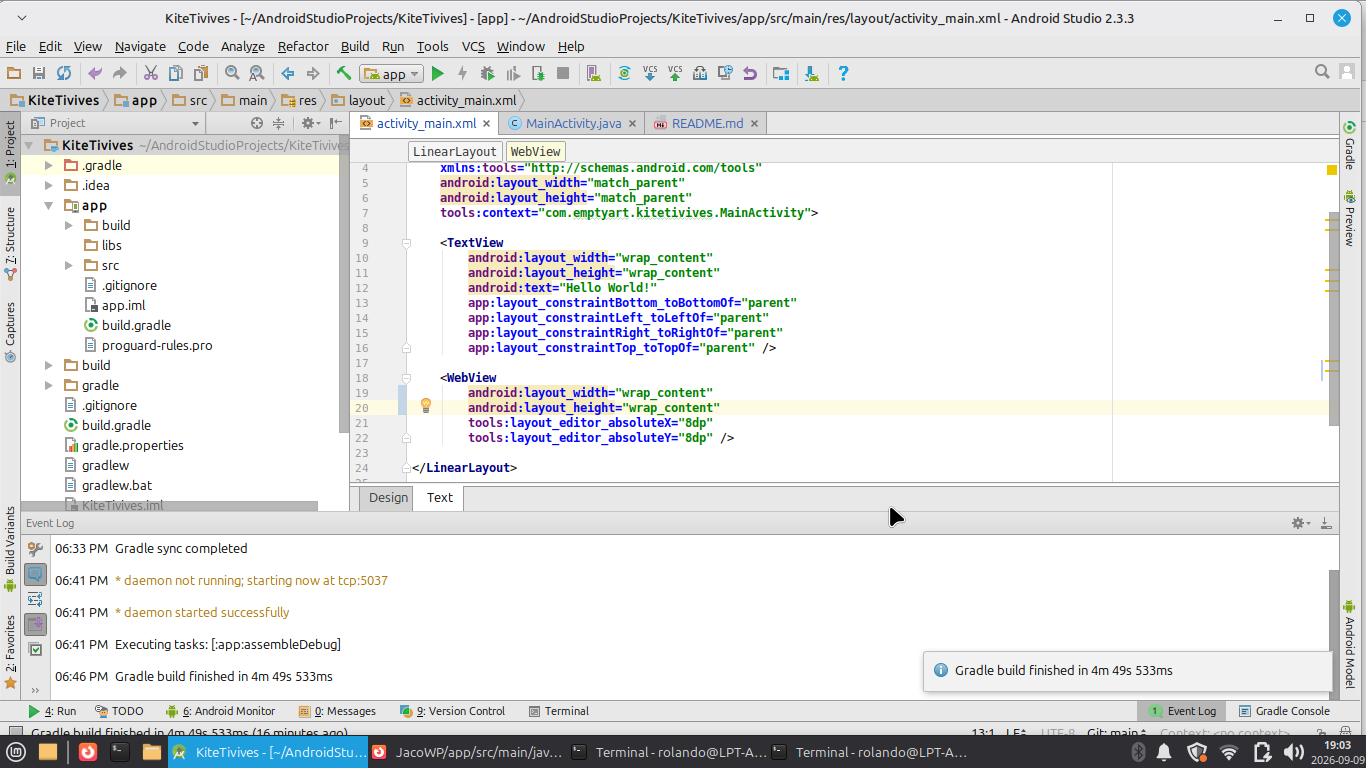
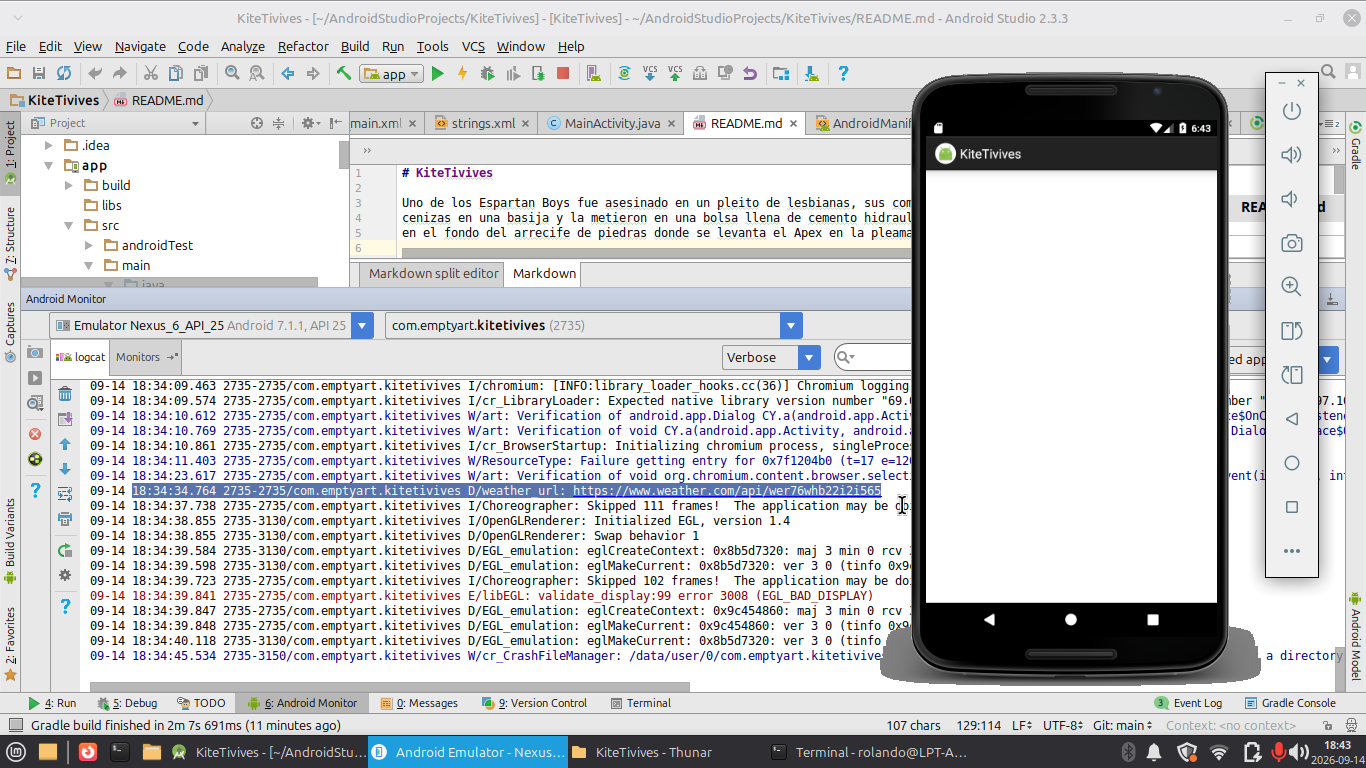
son of fury the story of benjamin blake ...

diff --git a/README.md b/README.md
@@ -1,8 +1,6 @@
 # KiteTivives
 
-Uno de los Espartan Boys fue asesinado en un pleito de lesbianas, sus compas del Surf pusieron sus
-cenizas en una basija y la metieron en una bolsa llena de cemento hidraulico y la plantaron
-en el fondo del arrecife de piedras donde se levanta el Apex en la pleamar. 
+Custom Weather APi Client for local kitesurf spots
 
 
 [![Misty Ella Fitzgerald.... ](https://raw.githubusercontent.com/rgarro/KiteTivives/refs/heads/main/screen.png)
